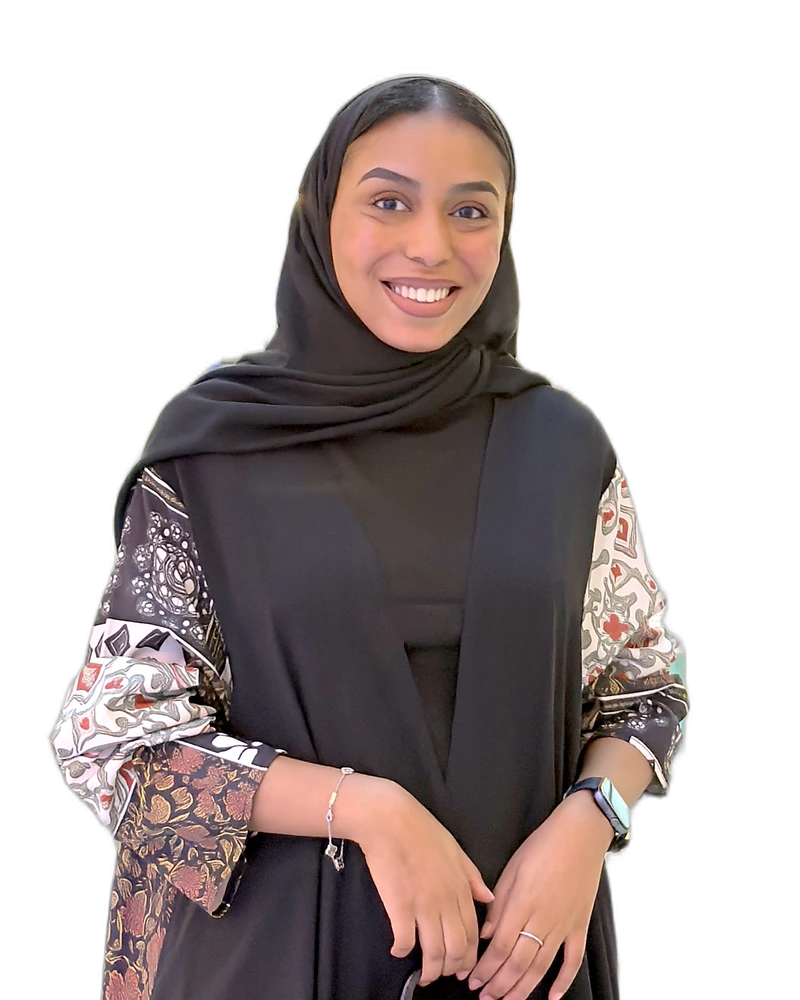
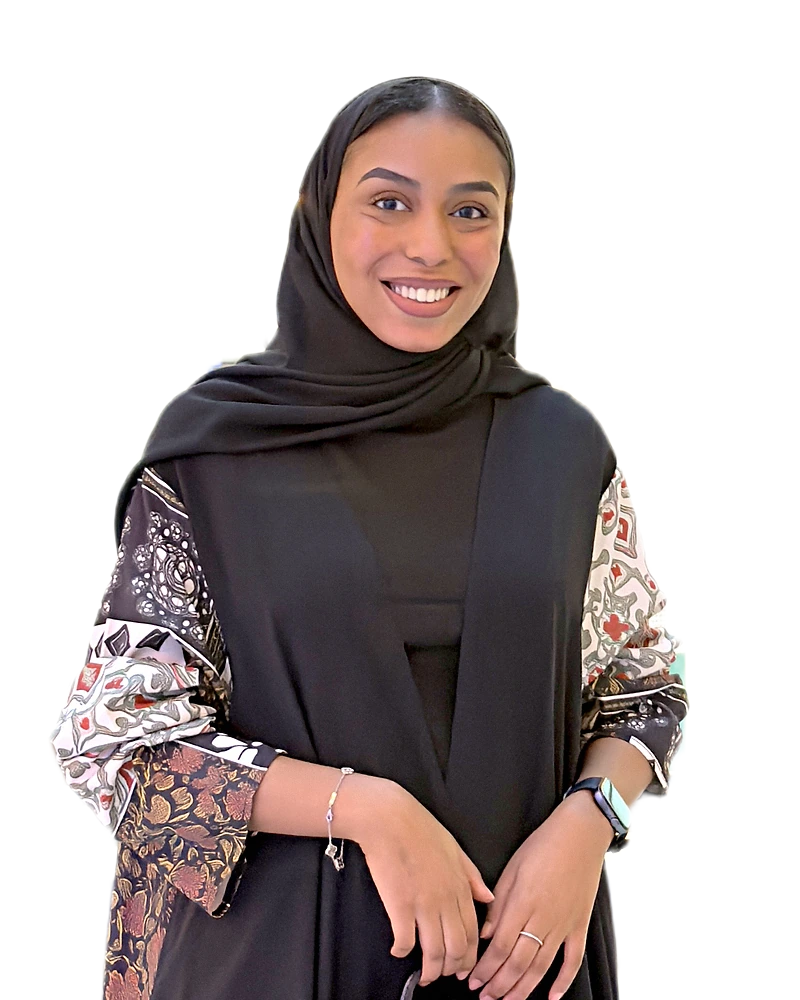
Sharper Fatma photo with a cleaner cut-out and a 1200px copy for phones
Claude-Session: https://claude.ai/code/session_01UqYfgUVQ71Z2mj6btitSC8

diff --git a/src/components/sections/member-card.tsx b/src/components/sections/member-card.tsx
@@ -21,7 +21,7 @@ export function MemberCard({ member, compact = false, index = 0 }: { member: Mem
         {member.photo ? (
           <img
             src={member.photo}
-            srcSet={`${member.photo.replace('.webp', '-480.webp')} 480w, ${member.photo} 800w`}
+            srcSet={photoSrcSet(member)}
             sizes={compact ? '8rem' : '(min-width: 1024px) 22rem, (min-width: 640px) 45vw, 90vw'}
             alt={name}
             width={800}
@@ -46,4 +46,10 @@ export function MemberCard({ member, compact = false, index = 0 }: { member: Mem
       </div>
     </article>
   )
+}
+
+/** The photo at each width it is saved in: 480 and 800 for everyone, 1200 where a sharper copy exists. */
+function photoSrcSet({ photo = '', hd }: Member) {
+  const sized = (width: number) => `${photo.replace('.webp', `-${width}.webp`)} ${width}w`
+  return [sized(480), `${photo} 800w`, hd && sized(1200)].filter(Boolean).join(', ')
 }

diff --git a/src/content/team.ts b/src/content/team.ts
@@ -4,10 +4,12 @@ export type Member = {
   id: keyof typeof en.about.members
   /** Path under /public, e.g. '/team/fatma.webp' (background removed, 4:5, 800x1000, plus a 480x600 copy named '<id>-480.webp'). Leave out to show initials. */
   photo?: string
+  /** Also has a sharper 1200x1500 copy named '<id>-1200.webp', for high-density phone screens. */
+  hd?: boolean
 }
 
 export const TEAM: Member[] = [
-  { id: 'fatma', photo: '/team/fatma.webp?v=3' },
+  { id: 'fatma', photo: '/team/fatma.webp?v=4', hd: true },
   { id: 'anaum', photo: '/team/anaum.webp' },
   { id: 'anas', photo: '/team/anas.webp?v=3' },
   { id: 'ibtisam', photo: '/team/ibtisam.webp' },
